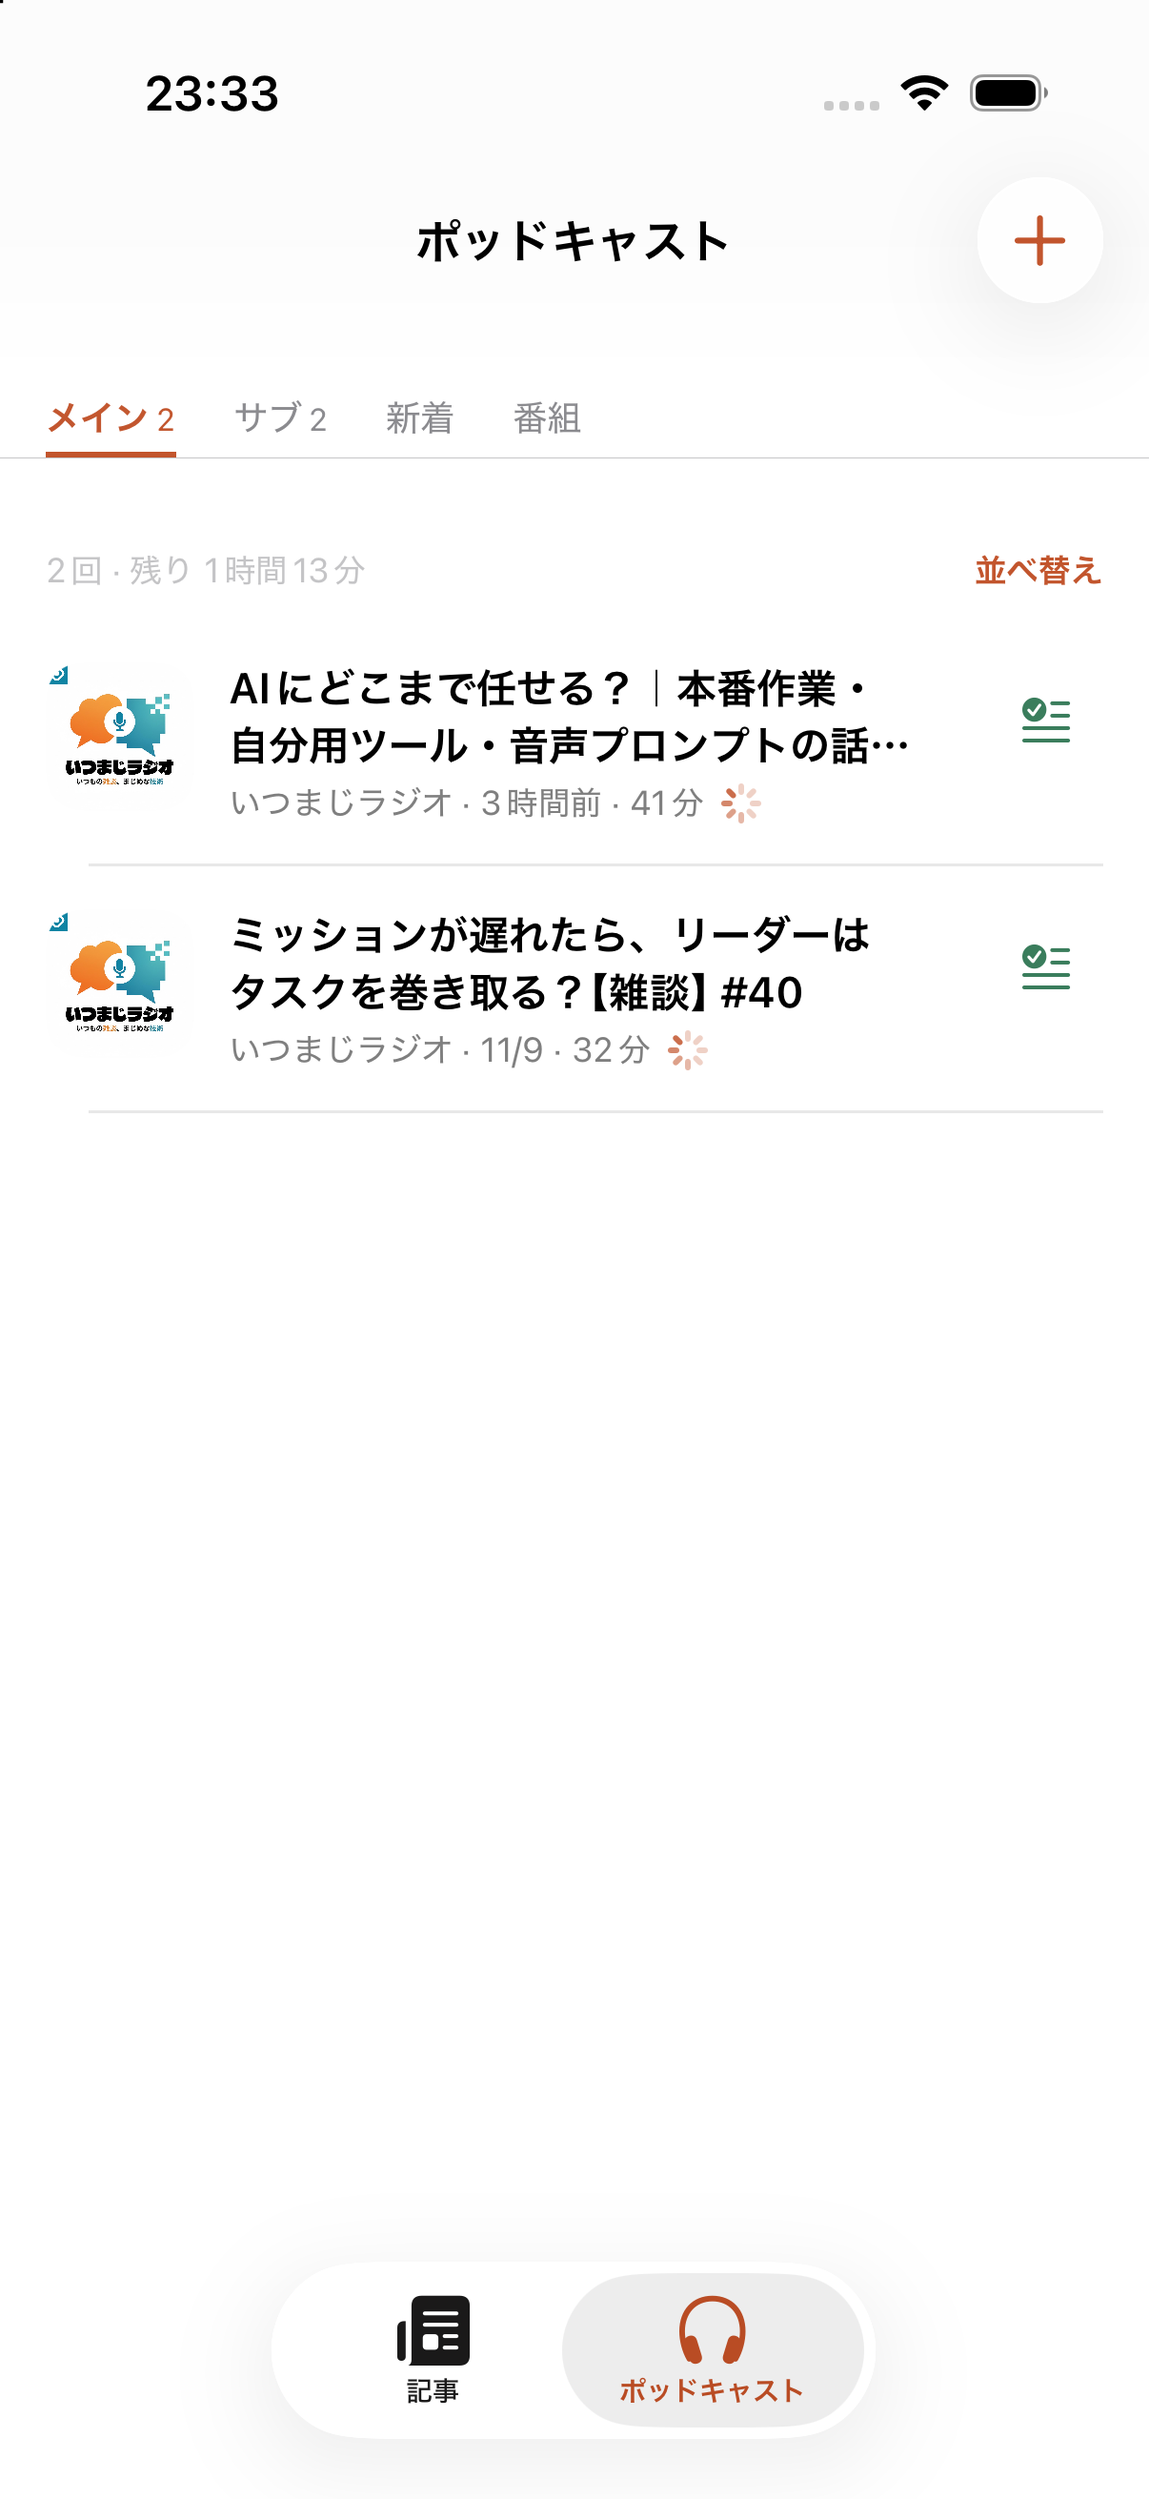
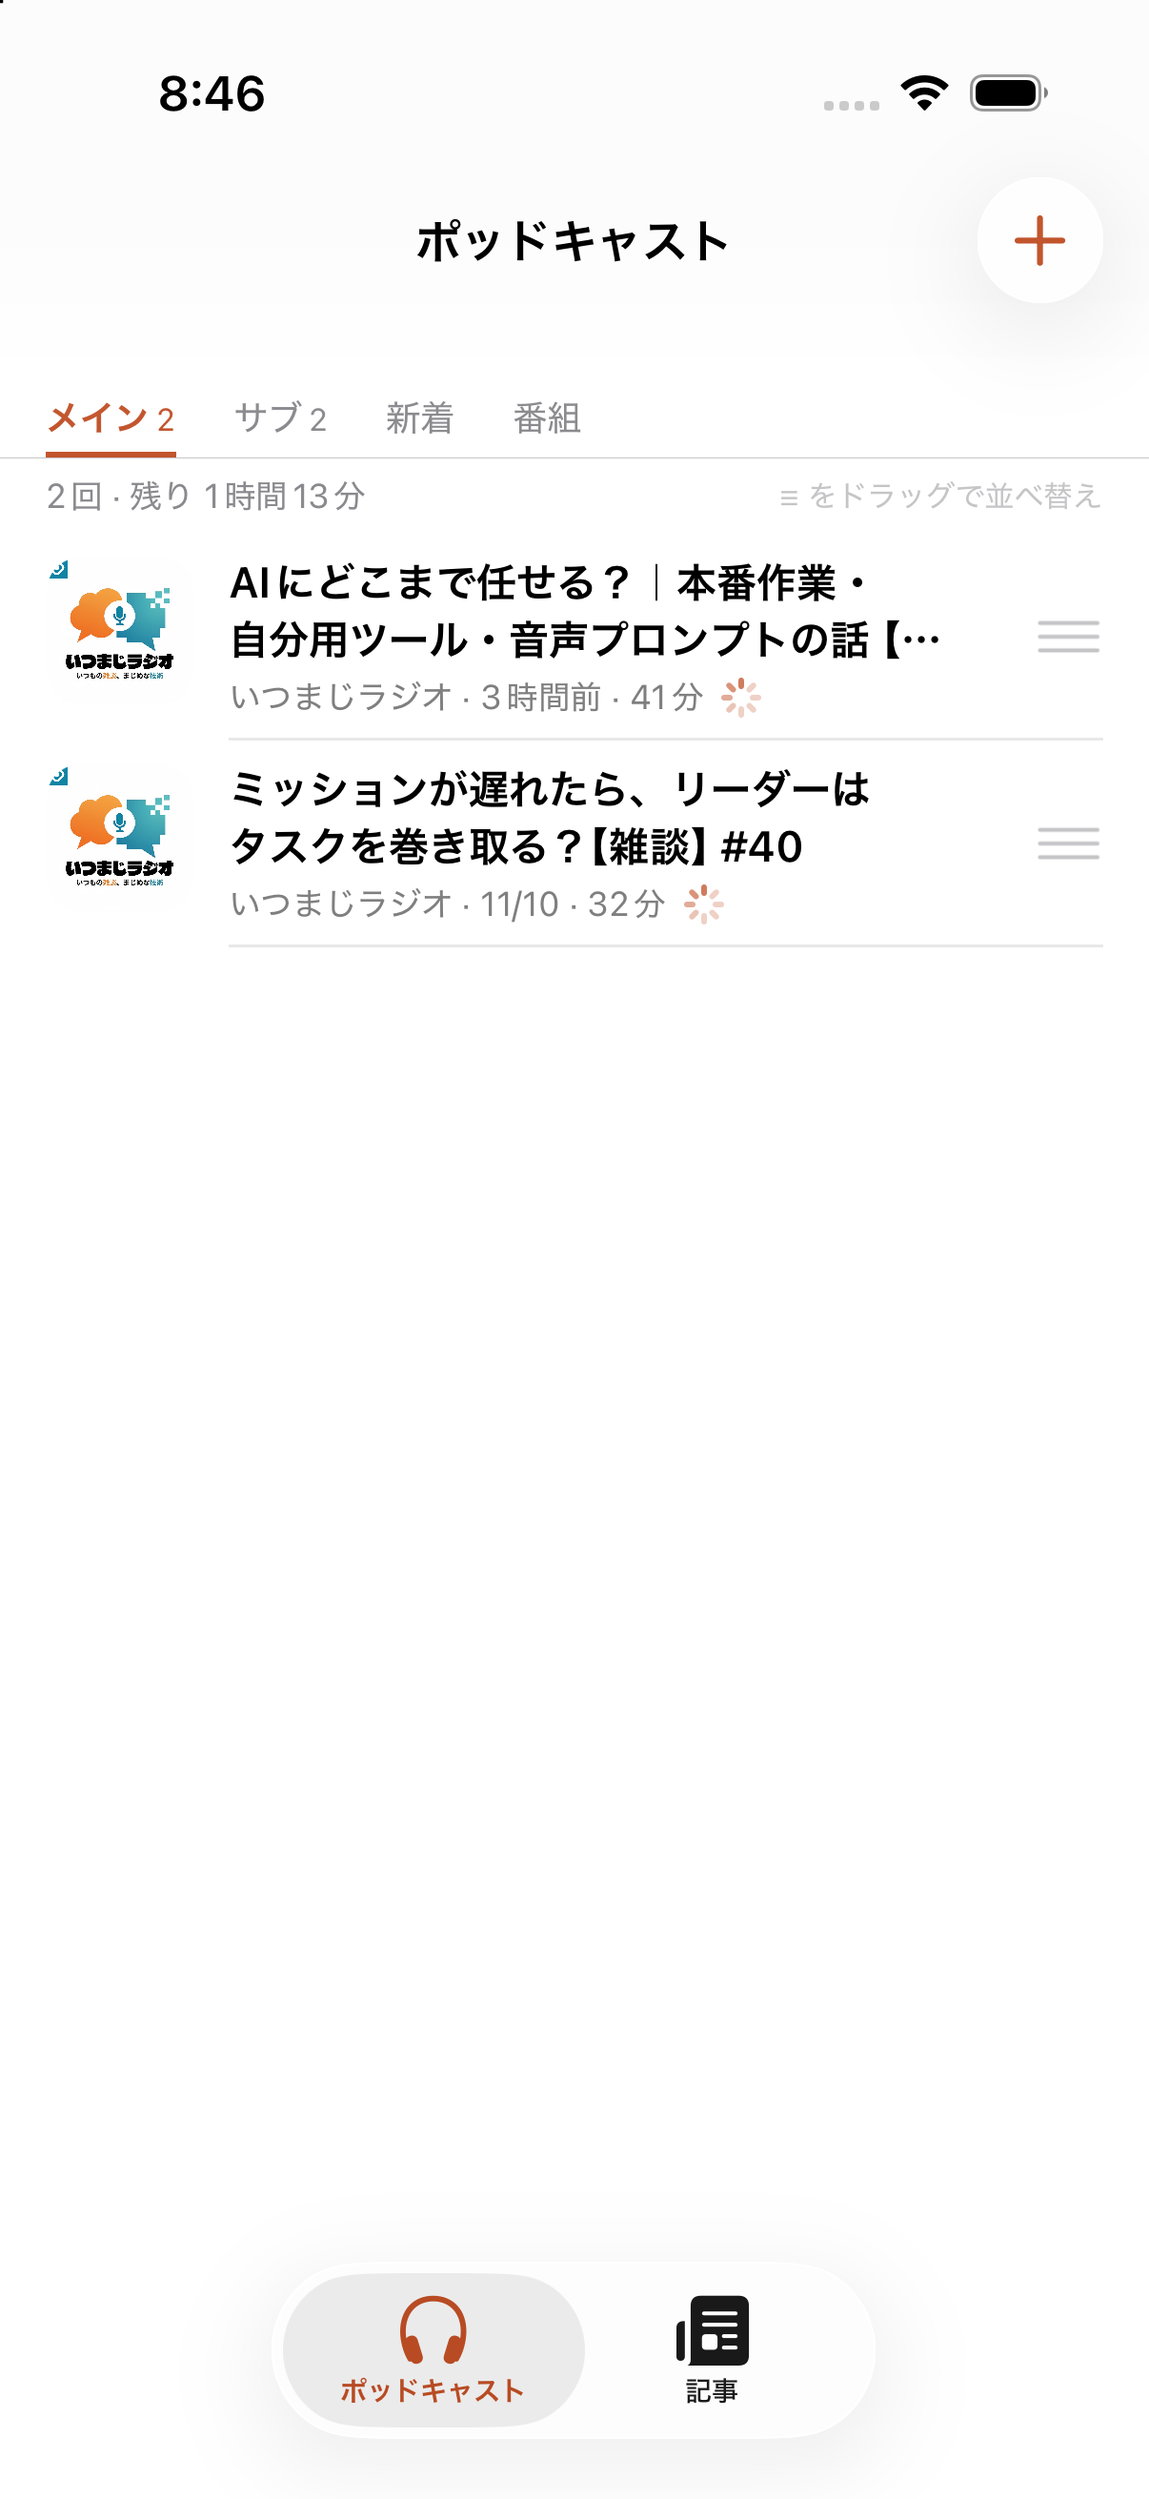
ポッドキャストのキューの行スワイプ（外す・移す）をやめ、どこを払っても隣のタブへ切り替わるように（外す・移すは長押しメニュー・右端の取っ手の上で始めたドラッグだけは並べ替え・使わなくなった onMoveRequest と移す先の確認を削除・UI テストと画面を更新）

diff --git a/ios/App/Podcast/QueueCollectionView.swift b/ios/App/Podcast/QueueCollectionView.swift
@@ -3,25 +3,20 @@ import UIKit
 
 /// キューの中身のリスト（UIKit の UICollectionView）。
 /// - 各行の右端の取っ手（≡）をつかんでドラッグすれば、編集モードに入らずに並べ替えられる（UICellAccessory.reorder・常に表示）
-/// - 左へスワイプで外す（いっぱいに払えばそのまま）・右へスワイプで別のキューへ移す
+/// - 行のスワイプ操作は持たない。外す・別のキューへ移すは長押しメニュー（EpisodeRow の contextMenu）
 /// - 行のタップは詳細ページ・アートワークのタップは番組の画面・長押しはキューのメニュー（行の中身は SwiftUI の EpisodeRow）
-/// - 行の無い余白（短いキューの下など）の左右スワイプは隣のタブへ（environment の tabSwipe へ渡す）。行の上の横スワイプは行の操作が優先
-/// SwiftUI の List は取っ手を出すのに編集モードが要り、編集モードではスワイプが効かないので UIKit にした
+/// - どこを左右に払っても（行の上でも余白でも）隣のタブへ（environment の tabSwipe へ渡す）。ただし右端の取っ手の上で始めたドラッグは並べ替え
+/// SwiftUI の List は取っ手を出すのに編集モードが要るので UIKit にした
 struct QueueCollectionView: UIViewRepresentable {
     let queue: PodcastQueue
-    /// 右へスワイプの「移す」
-    var onMoveRequest: (Episode) -> Void
 
     func makeCoordinator() -> Coordinator { Coordinator() }
 
     func makeUIView(context: Context) -> UICollectionView {
         let c = context.coordinator
         c.queueId = queue.id
-        c.onMoveRequest = onMoveRequest
         var config = UICollectionLayoutListConfiguration(appearance: .plain)
         config.backgroundColor = .clear
-        config.trailingSwipeActionsConfigurationProvider = { [weak c] ip in c?.trailingSwipe(ip) }
-        config.leadingSwipeActionsConfigurationProvider = { [weak c] ip in c?.leadingSwipe(ip) }
         let cv = UICollectionView(frame: .zero, collectionViewLayout: UICollectionViewCompositionalLayout.list(using: config))
         cv.backgroundColor = .clear
         // タップは行の中身（SwiftUI）が受ける（詳細ページ・アートワークは番組）。セルの選択は使わない
@@ -44,7 +39,6 @@ struct QueueCollectionView: UIViewRepresentable {
 
     func updateUIView(_ cv: UICollectionView, context: Context) {
         let c = context.coordinator
-        c.onMoveRequest = onMoveRequest
         c.tabSwipe = context.environment.tabSwipe
         c.queueId = queue.id
         c.apply(queue, animated: true)
@@ -53,7 +47,6 @@ struct QueueCollectionView: UIViewRepresentable {
     @MainActor
     final class Coordinator: NSObject, UIGestureRecognizerDelegate {
         var queueId = UUID()
-        var onMoveRequest: (Episode) -> Void = { _ in }
         var tabSwipe: TabSwipeHandler?
         private weak var tabPan: UIPanGestureRecognizer?
         private var episodes: [Int: Episode] = [:]
@@ -81,7 +74,10 @@ struct QueueCollectionView: UIViewRepresentable {
             }
         }
 
-        /// 行の無い余白で始まったパンだけを拾い、指の動きを親のタブ切り替えへ渡す（追従・確定の決まりは TabSwipe）。
+        /// 取っ手（右端の UICellAccessory.reorder）の幅。この中で始まったパンはタブに使わず、並べ替えのドラッグに任せる
+        static let handleWidth: CGFloat = 60
+
+        /// 取っ手の上以外で始まったパンを拾い、指の動きを親のタブ切り替えへ渡す（追従・確定の決まりは TabSwipe）。
         /// 縦のスクロールとは同時に認識する（記事の一覧の simultaneousGesture と同じ）
         func installTabPan(on cv: UICollectionView) {
             let pan = UIPanGestureRecognizer(target: self, action: #selector(handleTabPan(_:)))
@@ -104,8 +100,10 @@ struct QueueCollectionView: UIViewRepresentable {
 
         func gestureRecognizerShouldBegin(_ g: UIGestureRecognizer) -> Bool {
             guard g === tabPan, let cv = g.view as? UICollectionView else { return true }
-            // 行の上で始まったら行のスワイプ（外す・移す）と取っ手のドラッグに任せる
-            return cv.indexPathForItem(at: g.location(in: cv)) == nil
+            // 右端の取っ手の上で始まったら並べ替えのドラッグに任せる（行の上でも余白でもそれ以外はタブ切り替え）
+            let x = g.location(in: cv).x
+            if cv.indexPathForItem(at: g.location(in: cv)) != nil, x > cv.bounds.width - Self.handleWidth { return false }
+            return true
         }
 
         func gestureRecognizer(_ g: UIGestureRecognizer, shouldRecognizeSimultaneouslyWith other: UIGestureRecognizer) -> Bool {
@@ -120,35 +118,6 @@ struct QueueCollectionView: UIViewRepresentable {
             snap.appendSections([0])
             snap.appendItems(ids)
             dataSource.apply(snap, animatingDifferences: animated)
-        }
-
-        private func episode(at ip: IndexPath) -> Episode? {
-            dataSource.itemIdentifier(for: ip).flatMap { episodes[$0] }
-        }
-
-        func trailingSwipe(_ ip: IndexPath) -> UISwipeActionsConfiguration? {
-            guard let e = episode(at: ip) else { return nil }
-            let remove = UIContextualAction(style: .destructive, title: "外す") { _, _, done in
-                PodcastStore.shared.remove(e.id)
-                done(true)
-            }
-            remove.image = UIImage(systemName: "minus.circle")
-            let c = UISwipeActionsConfiguration(actions: [remove])
-            c.performsFirstActionWithFullSwipe = true
-            return c
-        }
-
-        func leadingSwipe(_ ip: IndexPath) -> UISwipeActionsConfiguration? {
-            guard let e = episode(at: ip), PodcastStore.shared.queues.count > 1 else { return nil }
-            let move = UIContextualAction(style: .normal, title: "移す") { [weak self] _, _, done in
-                self?.onMoveRequest(e)
-                done(true)
-            }
-            move.image = UIImage(systemName: "arrow.right.arrow.left")
-            move.backgroundColor = UIColor(Theme.readGreen)
-            let c = UISwipeActionsConfiguration(actions: [move])
-            c.performsFirstActionWithFullSwipe = false
-            return c
         }
     }
 }

diff --git a/ios/UITests/PodcastTabSwipeUITests.swift b/ios/UITests/PodcastTabSwipeUITests.swift
@@ -2,7 +2,7 @@ import XCTest
 
 /// ポッドキャストの上のタブを一覧の左右スワイプで切り替える（2026-11-24・記事のカテゴリと同じ手触り）
 /// - 新着・番組: 一覧のどこでも（番組は右へだけ・左へは行の「外す」に譲る）
-/// - キュー: 行の上の横スワイプは行の操作（外す・移す）が優先・行の無い余白と見出しの帯で隣のタブへ
+/// - キュー: 行の上でも余白でも見出しの帯でも隣のタブへ（行のスワイプ操作は無い）。右端の取っ手の上のドラッグだけは並べ替え
 /// ローカルの Worker・seed（先に ../worker で npm run dev と npm run seed）
 ///   make uitest TEST_ARGS=-only-testing:TayoriUITests/PodcastTabSwipeUITests
 final class PodcastTabSwipeUITests: XCTestCase {
@@ -62,20 +62,35 @@ final class PodcastTabSwipeUITests: XCTestCase {
         XCTAssertTrue(waitSelected("メイン"))
     }
 
-    /// キューの行の上の横スワイプは行の操作のまま（左へで「外す」・右へで「移す」）で、タブは動かない
-    func testQueueRowSwipeKeepsRowActions() throws {
+    /// キューの行の上の横スワイプでも隣のタブへ動く（行の「外す」「移す」は出ない）
+    func testQueueRowSwipeSwitchesTab() throws {
         launch()
         XCTAssertTrue(tab("メイン").waitForExistence(timeout: 15))
         let row = text("#42")
         XCTAssertTrue(row.waitForExistence(timeout: 10))
         row.swipeLeft()
-        XCTAssertTrue(app.buttons["外す"].firstMatch.waitForExistence(timeout: 3), "行の左スワイプで「外す」が出ない")
-        XCTAssertTrue(tab("メイン").isSelected, "行の左スワイプでタブが動いた")
-        app.buttons["外す"].firstMatch.tap()
-        XCTAssertTrue(waitFor(tab("メイン"), equals: "メイン, 1", timeout: 5), "スワイプで外せない")
-        text("#40").swipeRight()
-        XCTAssertTrue(app.buttons["移す"].firstMatch.waitForExistence(timeout: 3), "行の右スワイプで「移す」が出ない")
-        XCTAssertTrue(tab("メイン").isSelected, "行の右スワイプでタブが動いた")
+        XCTAssertTrue(waitSelected("サブ"), "行の上の左スワイプで右隣のキューへ移らない")
+        XCTAssertFalse(app.buttons["外す"].exists, "行のスワイプの「外す」が出た")
+        // サブの行の上（上の方）で右へ払って戻る
+        swipe(.right, at: 0.3)
+        XCTAssertTrue(waitSelected("メイン"), "行の上の右スワイプで左隣へ戻らない")
+        XCTAssertFalse(app.buttons["移す"].exists, "行のスワイプの「移す」が出た")
+    }
+
+    /// 取っ手（右端）の上のドラッグは並べ替えのままで、タブは動かない
+    func testHandleDragReordersWithoutSwitchingTab() throws {
+        launch()
+        XCTAssertTrue(tab("メイン").waitForExistence(timeout: 15))
+        let a = text("#42"), b = text("#40")
+        XCTAssertTrue(a.waitForExistence(timeout: 10) && b.exists)
+        let window = app.windows.firstMatch
+        let origin = window.coordinate(withNormalizedOffset: .zero)
+        let handle = origin.withOffset(CGVector(dx: window.frame.maxX - 30, dy: a.frame.midY + 10))
+        let target = origin.withOffset(CGVector(dx: window.frame.maxX - 30, dy: b.frame.maxY + 50))
+        handle.press(forDuration: 0.2, thenDragTo: target, withVelocity: .slow, thenHoldForDuration: 0.3)
+        sleep(1)
+        XCTAssertTrue(tab("メイン").isSelected, "取っ手のドラッグでタブが動いた")
+        XCTAssertGreaterThan(text("#42").frame.minY, text("#40").frame.minY, "取っ手のドラッグで並びが変わらない")
     }
 
     /// 縦のスクロールではタブが動かない

diff --git a/ios/UITests/EpisodeDetailUITests.swift b/ios/UITests/EpisodeDetailUITests.swift
@@ -3,7 +3,7 @@ import XCTest
 /// 2026-11-24 の手直し（ローカルの Worker・seed。先に ../worker で npm run dev と npm run seed）
 /// - 回の行をタップすると再生せずに詳細ページ（番組の回・新着・キューの3か所）
 /// - 詳細の再生ボタン・キューへの追加・概要のリンクはアプリ内 Safari
-/// - キューは右端の取っ手（≡）をドラッグで並べ替え（編集モードなし）・左スワイプで外す
+/// - キューは右端の取っ手（≡）をドラッグで並べ替え（編集モードなし）・外す／別のキューへ移すは長押しメニュー（行のスワイプは持たない）
 /// - 番組名・アートワークから番組の画面へ（詳細・全画面プレーヤー・新着とキューの行）
 /// - 下のタブは「ポッドキャスト｜記事」の順で、起動するとポッドキャスト
 /// - 聴き終えた: 詳細で切り替え・一覧に印・キューから外れる
@@ -94,9 +94,9 @@ final class EpisodeDetailUITests: XCTestCase {
         attach("notes-link-safari")
     }
 
-    // MARK: - キュー: 取っ手で並べ替え・スワイプで外す
+    // MARK: - キュー: 取っ手で並べ替え・長押しメニューで外す／移す
 
-    func testQueueDragHandleReordersAndSwipeStillRemoves() throws {
+    func testQueueDragHandleReordersAndMenuRemovesAndMoves() throws {
         launch()
         XCTAssertTrue(tab("メイン").waitForExistence(timeout: 15))
         let a = text("#42"), b = text("#40")
@@ -117,17 +117,17 @@ final class EpisodeDetailUITests: XCTestCase {
         assertDetail(containing: "#40")
         XCTAssertTrue(waitFor(app.staticTexts["episodeDetailQueueState"], contains: "メインの1番目", timeout: 5))
         back()
-        // 左スワイプ → 外す
-        text("#42").swipeLeft()
-        let remove = app.buttons["外す"].firstMatch
-        if remove.waitForExistence(timeout: 3) { remove.tap() }
-        XCTAssertTrue(waitFor(tab("メイン"), equals: "メイン, 1", timeout: 5), "スワイプで外せない")
-        // 右スワイプ → 移す
-        text("#40").swipeRight()
-        let move = app.buttons["移す"].firstMatch
-        XCTAssertTrue(move.waitForExistence(timeout: 3), "右スワイプの「移す」が無い")
+        // 長押しメニュー → キューから外す
+        text("#42").press(forDuration: 1.2)
+        let remove = app.buttons["キューから外す"].firstMatch
+        XCTAssertTrue(remove.waitForExistence(timeout: 3), "長押しメニューに「キューから外す」が無い")
+        remove.tap()
+        XCTAssertTrue(waitFor(tab("メイン"), equals: "メイン, 1", timeout: 5), "長押しメニューで外せない")
+        // 長押しメニュー → サブの末尾へ（別のキューへ移る）
+        text("#40").press(forDuration: 1.2)
+        let move = app.buttons["サブの末尾へ"].firstMatch
+        XCTAssertTrue(move.waitForExistence(timeout: 3), "長押しメニューに「サブの末尾へ」が無い")
         move.tap()
-        app.buttons["サブの末尾へ"].firstMatch.tap()
         XCTAssertTrue(waitFor(tab("サブ"), equals: "サブ, 3", timeout: 5))
     }
 

diff --git a/ios/App/Podcast/PodcastViews.swift b/ios/App/Podcast/PodcastViews.swift
@@ -303,7 +303,6 @@ struct QueueListView: View {
     @State private var store = PodcastStore.shared
     let queue: PodcastQueue
     var onRename: () -> Void = {}
-    @State private var moving: Episode?
 
     var body: some View {
         VStack(spacing: 0) {
@@ -322,22 +321,12 @@ struct QueueListView: View {
                 .refreshable { await store.refresh() }
                 .tabSwipeGesture()
             } else {
-                // 右端の取っ手（≡）をつかんでドラッグで並べ替え（編集モードなし）・左スワイプで外す・右スワイプで移す。
-                // 行の上の横スワイプは行の操作が優先・行の無い余白の横スワイプで隣のタブへ（QueueCollectionView の中で振り分け）
-                QueueCollectionView(queue: queue, onMoveRequest: { moving = $0 })
+                // 右端の取っ手（≡）をつかんでドラッグで並べ替え（編集モードなし）・外す／別のキューへ移すは長押しメニュー。
+                // 取っ手以外はどこの横スワイプでも隣のタブへ（QueueCollectionView の中で振り分け）
+                QueueCollectionView(queue: queue)
             }
             if let e = store.errorMessage {
                 Text(e).font(.footnote).foregroundStyle(Theme.error).padding(8)
-            }
-        }
-        .confirmationDialog(
-            "「\(moving?.title ?? "")」をどのキューへ移しますか？",
-            isPresented: Binding(get: { moving != nil }, set: { if !$0 { moving = nil } }),
-            titleVisibility: .visible
-        ) {
-            ForEach(store.queues.filter { $0.id != queue.id }) { q in
-                Button("\(q.name)の先頭へ") { if let m = moving { store.add(m, to: q.id, atTop: true) }; moving = nil }
-                Button("\(q.name)の末尾へ") { if let m = moving { store.add(m, to: q.id, atTop: false) }; moving = nil }
             }
         }
     }
